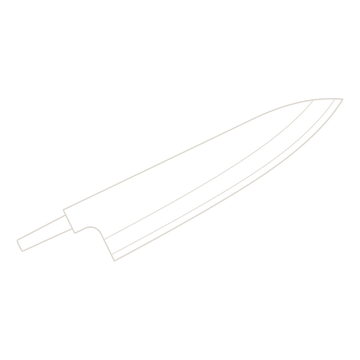
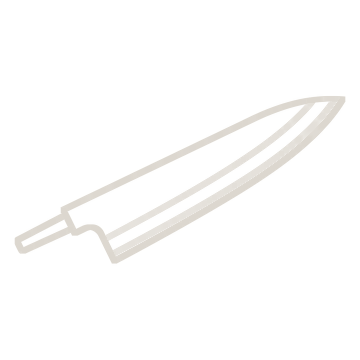
Reperes : epaissit le trait des icones pour qu'elles se voient
Cause mesuree : le trait fait 2 px dans un fichier de 360 px, affiche a
72 px il tombe a 0.40 px. Sous le pixel, le navigateur ne peut rendre
qu'un gris diffus, d'ou des icones fantomes.

Trait epaissi a la source par dilatation, teste a 3, 5 et 7 pixels de
rayon et regarde a la taille reelle d'affichage : 5 est le bon reglage,
7 fait fusionner les traits internes de la lame feuilletee.

Opacite passee de 0.85 a 1 : sur un trait deja fin, ce voile achevait de
faire tomber le contraste. Taille portee de 7.2 a 7.6 rem.

A noter : les quatre icones des piliers de la home ont le meme trait de
2 px, affiche a 96 px soit 0.53 px. Le probleme y est moindre mais reel,
et ces fichiers n'ont pas ete touches.

Changed region(s): [[0.0306, 0.2444, 0.9778, 0.7333]]

diff --git a/assets/da-damas.css b/assets/da-damas.css
@@ -1518,11 +1518,14 @@ hr {
   text-align: center;
 }
 
+/* Opacite pleine : a 0.85 sur un trait deja fin, le contraste tombe sous
+   le seuil de lisibilite. Le trait des fichiers a par ailleurs ete epaissi,
+   il ne faisait que 0.40 px a cette taille d'affichage. */
 .da-repere__ico {
-  width: 7.2rem;
-  height: 7.2rem;
+  width: 7.6rem;
+  height: 7.6rem;
   object-fit: contain;
-  opacity: 0.85;
+  opacity: 1;
   margin-bottom: 1.6rem;
   flex: 0 0 auto;
 }
